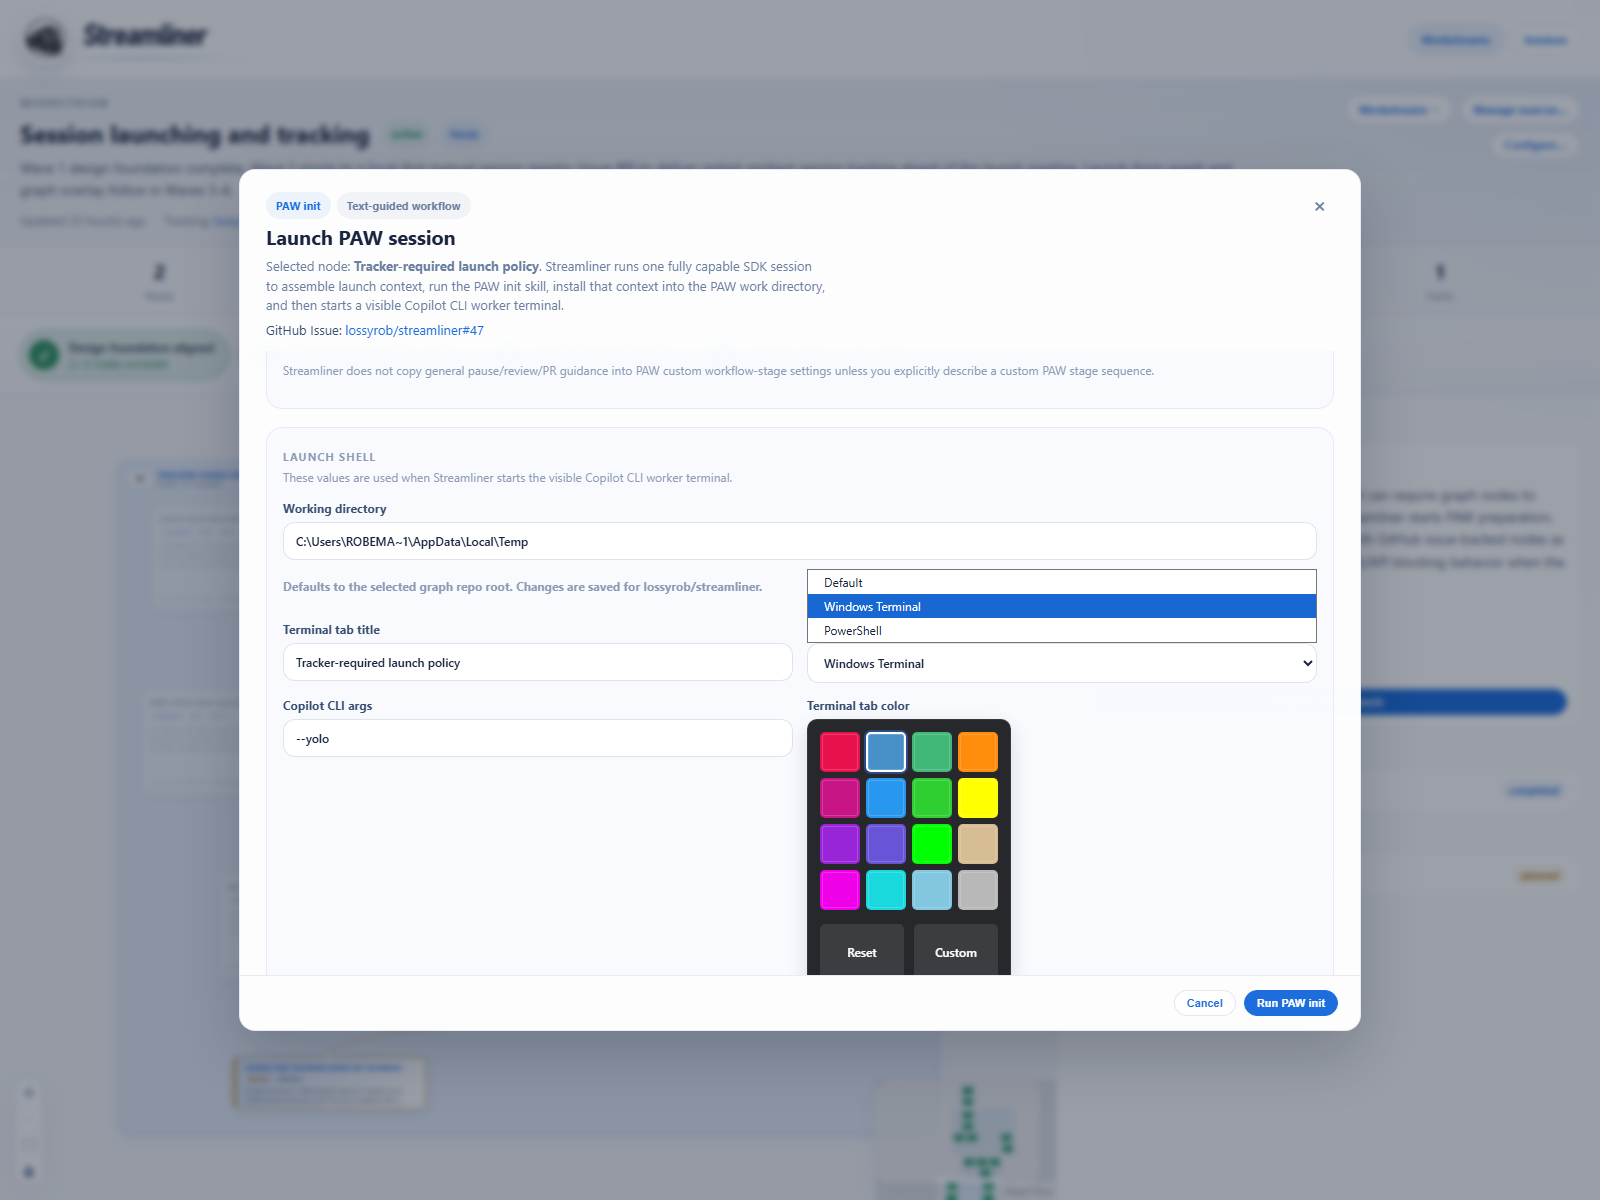
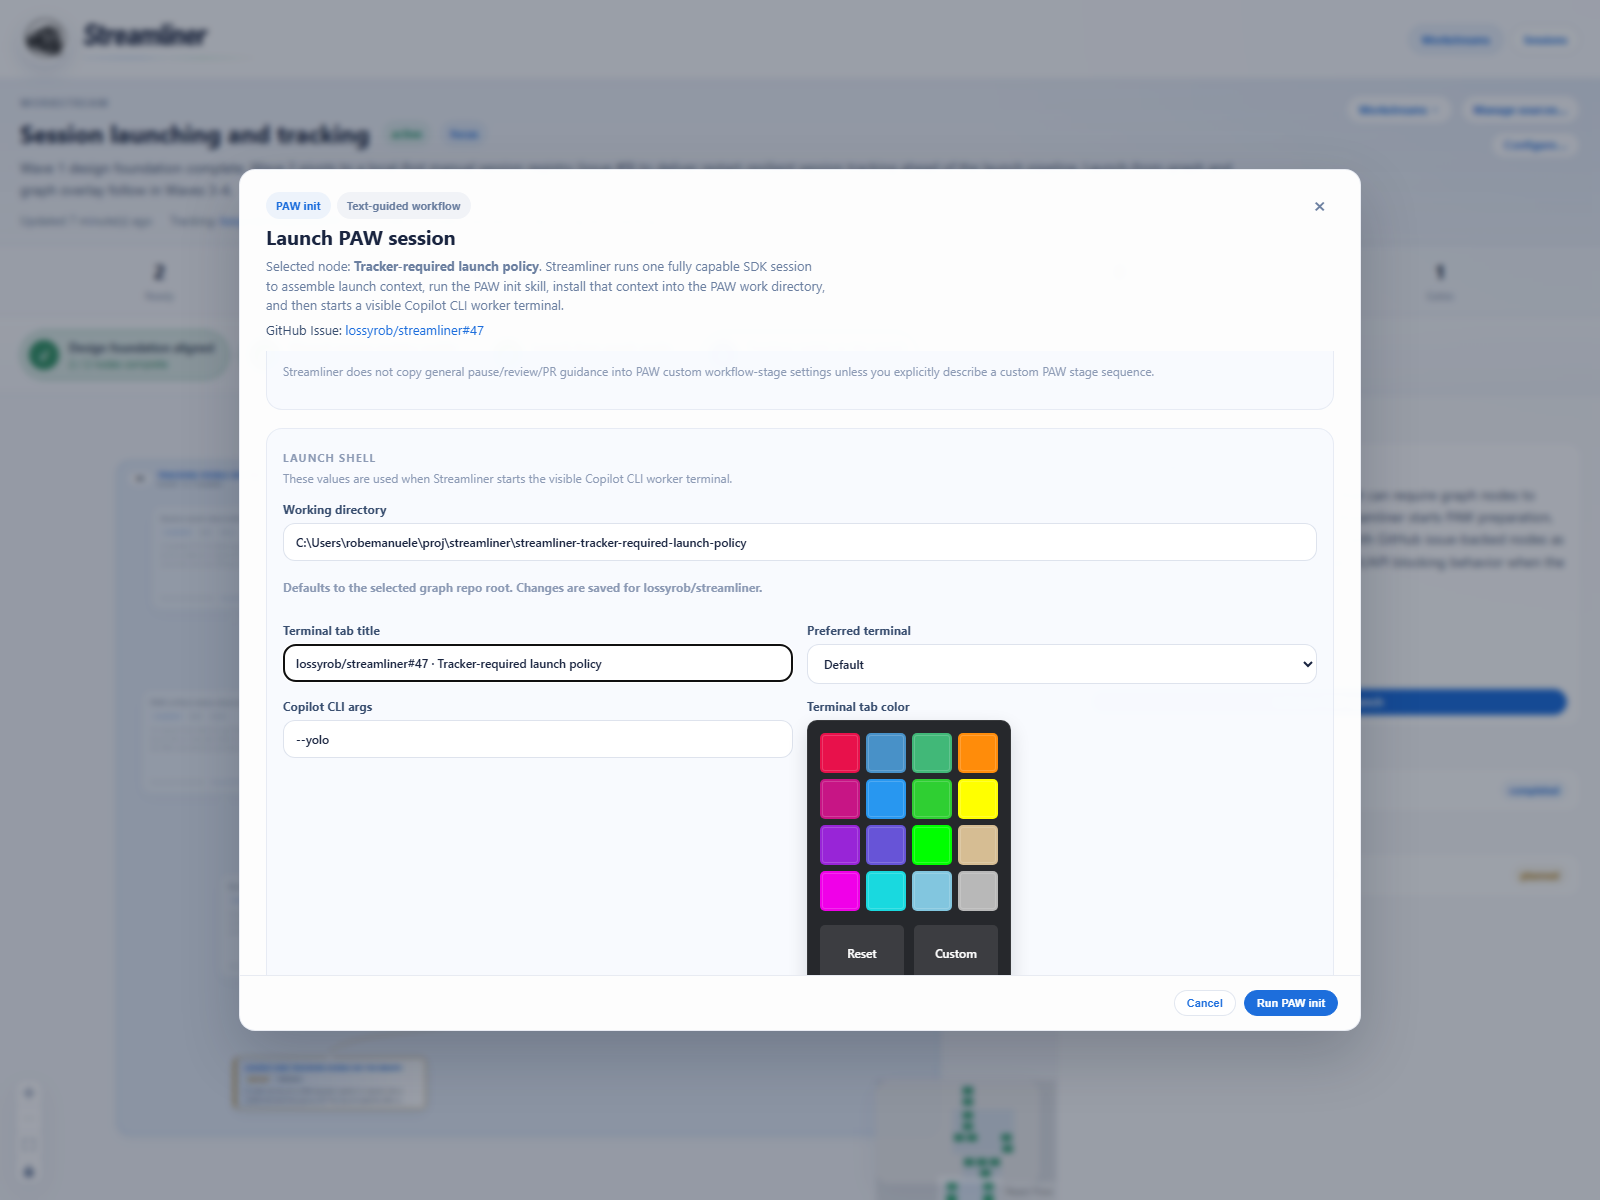
Add terminal title template defaults

diff --git a/src/components/WorkstreamConfigurationDialog.tsx b/src/components/WorkstreamConfigurationDialog.tsx
@@ -9,6 +9,7 @@ import {
   type WorkstreamLaunchRequiredTracker,
   type WorkstreamLaunchTerminalPreference,
 } from "../workstream-schema";
+import { WORKSTREAM_TERMINAL_TITLE_TEMPLATE_HELP } from "../workstream-launch-templates";
 import { TerminalColorQuickPicker } from "./SessionColorPicker";
 
 export interface WorkstreamConfigurationValues {
@@ -59,6 +60,9 @@ export function WorkstreamConfigurationDialog({
   const [preferredTerminal, setPreferredTerminal] = useState<WorkstreamLaunchTerminalPreference>(
     workstream.launchDefaults?.terminal?.preferredTerminal ?? "default",
   );
+  const [titleTemplate, setTitleTemplate] = useState(
+    workstream.launchDefaults?.terminal?.titleTemplate ?? "",
+  );
   const [terminalColor, setTerminalColor] = useState(
     workstream.launchDefaults?.terminal?.tabColor ?? "",
   );
@@ -75,6 +79,7 @@ export function WorkstreamConfigurationDialog({
 
     const terminal = {
       ...(preferredTerminal !== "default" ? { preferredTerminal } : {}),
+      ...(titleTemplate.trim() ? { titleTemplate: titleTemplate.trim() } : {}),
       ...(color ? { tabColor: color.toLowerCase() } : {}),
     };
     void onSave({
@@ -171,6 +176,28 @@ export function WorkstreamConfigurationDialog({
                 </select>
                 <span className="sl-field-note">
                   {terminalPreferenceHelp(preferredTerminal)}
+                </span>
+              </label>
+              <label className="sl-field">
+                <span className="sl-field-label-with-help">
+                  <span>Terminal tab title template</span>
+                  <abbr
+                    className="sl-inline-help"
+                    title={WORKSTREAM_TERMINAL_TITLE_TEMPLATE_HELP}
+                  >
+                    ?
+                  </abbr>
+                </span>
+                <input
+                  aria-label="Terminal tab title template"
+                  value={titleTemplate}
+                  onChange={(event) => setTitleTemplate(event.target.value)}
+                  placeholder="{githubIssue} · {nodeTitle}"
+                  disabled={saving}
+                />
+                <span className="sl-field-note">
+                  Use {"{githubIssue}"}, {"{nodeId}"}, or {"{nodeTitle}"}.
+                  Leave empty to use each node title.
                 </span>
               </label>
               <label className="sl-field sl-paw-launch-color-field">

diff --git a/src/server/launch-preparation.ts b/src/server/launch-preparation.ts
@@ -13,7 +13,8 @@ import {
 } from "@github/copilot-sdk";
 
 import type { NodeLaunchRecord } from "../node-launch-record-contract";
-import type { WorkstreamLaunchDefaults, WorkstreamLaunchPolicy } from "../workstream-schema";
+import type { WorkstreamLaunchDefaults, WorkstreamLaunchPolicy, WorkstreamNode } from "../workstream-schema";
+import { renderWorkstreamTerminalTitleTemplate } from "../workstream-launch-templates";
 import {
   evaluateLaunchPolicyFromGraph,
   launchPolicyDetails,
@@ -1614,6 +1615,7 @@ export async function preparePawLaunch(
   const sessionStateRoot = resolve(options.stateRoot ?? defaultStateRoot());
   let launchPolicy: WorkstreamLaunchPolicy | null = null;
   let launchDefaults: WorkstreamLaunchDefaults | null = null;
+  let launchDefaultsNode: WorkstreamNode | null = null;
   const policyGraphPath = options.graphPath ?? options.defaultGraphPath;
   if (policyGraphPath) {
     const policyResult = evaluateLaunchPolicyFromGraph({
@@ -1647,9 +1649,27 @@ export async function preparePawLaunch(
     }
     launchPolicy = policyResult.launchPolicy;
     launchDefaults = policyResult.launchDefaults;
+    launchDefaultsNode = policyResult.node;
   }
+  const terminalTitleDefault = launchDefaultsNode
+    ? renderWorkstreamTerminalTitleTemplate(
+        launchDefaults?.terminal?.titleTemplate,
+        launchDefaultsNode,
+      )
+    : null;
+  const terminalDefaults = launchDefaults?.terminal
+    ? {
+        ...(launchDefaults.terminal.preferredTerminal
+          ? { preferredTerminal: launchDefaults.terminal.preferredTerminal }
+          : {}),
+        ...(launchDefaults.terminal.tabColor
+          ? { tabColor: launchDefaults.terminal.tabColor }
+          : {}),
+        ...(terminalTitleDefault ? { title: terminalTitleDefault } : {}),
+      }
+    : undefined;
   const parsedConfiguration = parseConfigurationInput(options.configuration, {
-    terminal: launchDefaults?.terminal,
+    terminal: terminalDefaults,
   });
 
   const contextPreparer = options.contextPreparer ?? prepareLaunchContextPackage;

diff --git a/src/server/workstream-configuration.test.ts b/src/server/workstream-configuration.test.ts
@@ -85,6 +85,7 @@ describe("updateWorkstreamConfigurationFile", () => {
       launchDefaults: {
         terminal: {
           preferredTerminal: "windows-terminal",
+          titleTemplate: "{githubIssue} · {nodeTitle}",
           tabColor: "#FF8C0A",
         },
       },
@@ -94,6 +95,7 @@ describe("updateWorkstreamConfigurationFile", () => {
     expect(result.workstream.launchDefaults).toEqual({
       terminal: {
         preferredTerminal: "windows-terminal",
+        titleTemplate: "{githubIssue} · {nodeTitle}",
         tabColor: "#ff8c0a",
       },
     });
@@ -101,10 +103,11 @@ describe("updateWorkstreamConfigurationFile", () => {
       updatedAt: "2026-05-07T18:22:44.000Z",
       launchPolicy: { requiredTracker: "github-issue" },
       launchDefaults: {
-        terminal: {
-          preferredTerminal: "windows-terminal",
-          tabColor: "#ff8c0a",
-        },
+      terminal: {
+        preferredTerminal: "windows-terminal",
+        titleTemplate: "{githubIssue} · {nodeTitle}",
+        tabColor: "#ff8c0a",
+      },
       },
     }));
 
@@ -113,6 +116,7 @@ describe("updateWorkstreamConfigurationFile", () => {
       launchDefaults: {
         terminal: {
           preferredTerminal: "default",
+          titleTemplate: "",
           tabColor: "",
         },
       },
@@ -139,6 +143,10 @@ describe("updateWorkstreamConfigurationFile", () => {
       {
         label: "tab color",
         configuration: { launchDefaults: { terminal: { tabColor: "orange" } } },
+      },
+      {
+        label: "title template",
+        configuration: { launchDefaults: { terminal: { titleTemplate: 42 } } },
       },
     ];
 

diff --git a/src/server/workstream-configuration.ts b/src/server/workstream-configuration.ts
@@ -98,6 +98,17 @@ function normalizeTerminalPreference(value: unknown): WorkstreamLaunchTerminalPr
   return value as WorkstreamLaunchTerminalPreference;
 }
 
+function normalizeTitleTemplate(value: unknown): string | undefined {
+  if (value === undefined || value === null || value === "") {
+    return undefined;
+  }
+  if (typeof value !== "string") {
+    throw badConfiguration("launchDefaults.terminal.titleTemplate must be a string.");
+  }
+  const template = value.trim();
+  return template.length > 0 ? template : undefined;
+}
+
 function normalizeLaunchDefaults(value: unknown): WorkstreamLaunchDefaults | undefined {
   const record = optionalRecord(value, "launchDefaults");
   if (!record) {
@@ -108,9 +119,11 @@ function normalizeLaunchDefaults(value: unknown): WorkstreamLaunchDefaults | und
     return undefined;
   }
   const preferredTerminal = normalizeTerminalPreference(terminalRecord.preferredTerminal);
+  const titleTemplate = normalizeTitleTemplate(terminalRecord.titleTemplate);
   const tabColor = normalizeOptionalHexColor(terminalRecord.tabColor);
   const terminal = {
     ...(preferredTerminal ? { preferredTerminal } : {}),
+    ...(titleTemplate ? { titleTemplate } : {}),
     ...(tabColor ? { tabColor } : {}),
   };
   return Object.keys(terminal).length > 0 ? { terminal } : undefined;

diff --git a/src/workstream-launch-templates.test.ts b/src/workstream-launch-templates.test.ts
@@ -1,0 +1,42 @@
+import { describe, expect, it } from "vitest";
+
+import { renderWorkstreamTerminalTitleTemplate } from "./workstream-launch-templates";
+import type { WorkstreamNode } from "./workstream-schema";
+
+const node: WorkstreamNode = {
+  id: "tracker-required-launch-policy",
+  type: "task",
+  title: "Tracker-required launch policy",
+  summary: "Require tracker-backed launches.",
+  status: "ready",
+  attention: "focus",
+  repoIds: ["streamliner"],
+  tracker: {
+    type: "github",
+    owner: "lossyrob",
+    repo: "streamliner",
+    number: 47,
+  },
+  dependsOn: [],
+};
+
+describe("renderWorkstreamTerminalTitleTemplate", () => {
+  it("renders supported terminal title template values", () => {
+    expect(
+      renderWorkstreamTerminalTitleTemplate(
+        "{githubIssue} · {nodeId} · {nodeTitle}",
+        node,
+      ),
+    ).toBe(
+      "lossyrob/streamliner#47 · tracker-required-launch-policy · Tracker-required launch policy",
+    );
+  });
+
+  it("leaves unknown template values literal and returns null for empty output", () => {
+    expect(renderWorkstreamTerminalTitleTemplate("{unknown}", node)).toBe("{unknown}");
+    expect(renderWorkstreamTerminalTitleTemplate("{githubIssue}", {
+      ...node,
+      tracker: undefined,
+    })).toBeNull();
+  });
+});

diff --git a/src/App.test.tsx b/src/App.test.tsx
@@ -2277,6 +2277,10 @@ describe("App sessions route", () => {
       await settle();
       setSelectValue(findSelectByLabel(container, "Required tracker"), "github-issue");
       setSelectValue(findSelectByLabel(container, "Preferred terminal"), "windows-terminal");
+      setInputValue(
+        findInputByLabel(container, "Terminal tab title template"),
+        "{githubIssue} · {nodeTitle}",
+      );
       act(() => {
         findButtonByLabel(container, "Use terminal color #ff8c0a").click();
       });
@@ -2291,6 +2295,7 @@ describe("App sessions route", () => {
         launchDefaults: {
           terminal: {
             preferredTerminal: "windows-terminal",
+            titleTemplate: "{githubIssue} · {nodeTitle}",
             tabColor: "#ff8c0a",
           },
         },
@@ -2307,6 +2312,9 @@ describe("App sessions route", () => {
       await settle();
 
       expect(findSelectByLabel(container, "Preferred terminal").value).toBe("windows-terminal");
+      expect(findInputByLabel(container, "Terminal tab title").value).toBe(
+        "lossyrob/streamliner#33 · Launch prompt profiles",
+      );
       expect(container.textContent).toContain("Selected #ff8c0a");
     },
     15_000,

diff --git a/src/workstream-launch-templates.ts b/src/workstream-launch-templates.ts
@@ -1,0 +1,26 @@
+import type { WorkstreamNode } from "./workstream-schema";
+import { issueLabel } from "./workstream-links";
+
+export const WORKSTREAM_TERMINAL_TITLE_TEMPLATE_HELP =
+  "{githubIssue} = GitHub issue as owner/repo#number; {nodeId} = graph node id; {nodeTitle} = graph node title.";
+
+export function renderWorkstreamTerminalTitleTemplate(
+  template: string | null | undefined,
+  node: WorkstreamNode,
+): string | null {
+  const trimmedTemplate = template?.trim();
+  if (!trimmedTemplate) {
+    return null;
+  }
+
+  const values: Record<string, string> = {
+    githubIssue: node.tracker?.type === "github" ? issueLabel(node.tracker) ?? "" : "",
+    nodeId: node.id,
+    nodeTitle: node.title,
+  };
+  const rendered = trimmedTemplate.replace(
+    /\{(githubIssue|nodeId|nodeTitle)\}/g,
+    (_match, key: string) => values[key] ?? "",
+  ).trim();
+  return rendered.length > 0 ? rendered : null;
+}

diff --git a/src/App.tsx b/src/App.tsx
@@ -71,6 +71,7 @@ import {
   trackerLabel as workstreamTrackerLabel,
   trackerUrl as workstreamTrackerUrl,
 } from "./workstream-links";
+import { renderWorkstreamTerminalTitleTemplate } from "./workstream-launch-templates";
 import { evaluateNodeLaunchPolicy } from "./workstream-launch-policy";
 import { useSessionRegistryList } from "./session-registry-client";
 
@@ -1159,7 +1160,11 @@ function GraphDashboard({
         preferredTerminal:
           workstream?.launchDefaults?.terminal?.preferredTerminal ??
           DEFAULT_PAW_TERMINAL_CONFIGURATION.preferredTerminal,
-        title: selectedEntry.node.title,
+        title:
+          renderWorkstreamTerminalTitleTemplate(
+            workstream?.launchDefaults?.terminal?.titleTemplate,
+            selectedEntry.node,
+          ) ?? selectedEntry.node.title,
         tabColor: workstream?.launchDefaults?.terminal?.tabColor ?? null,
       },
     };

diff --git a/src/server/app.test.ts b/src/server/app.test.ts
@@ -549,6 +549,7 @@ describe("createStreamlinerApiApp", () => {
         launchDefaults: {
           terminal: {
             preferredTerminal: "windows-terminal",
+            titleTemplate: "{githubIssue} · {nodeTitle}",
             tabColor: "#FF8C0A",
           },
         },
@@ -561,6 +562,7 @@ describe("createStreamlinerApiApp", () => {
     expect(updateResponse.body.workstream.launchDefaults).toEqual({
       terminal: {
         preferredTerminal: "windows-terminal",
+        titleTemplate: "{githubIssue} · {nodeTitle}",
         tabColor: "#ff8c0a",
       },
     });
@@ -570,6 +572,7 @@ describe("createStreamlinerApiApp", () => {
     expect(persisted.launchDefaults).toEqual({
       terminal: {
         preferredTerminal: "windows-terminal",
+        titleTemplate: "{githubIssue} · {nodeTitle}",
         tabColor: "#ff8c0a",
       },
     });

diff --git a/src/server/launch-policy.ts b/src/server/launch-policy.ts
@@ -9,6 +9,7 @@ import type {
   WorkstreamDocument,
   WorkstreamLaunchDefaults,
   WorkstreamLaunchPolicy,
+  WorkstreamNode,
 } from "../workstream-schema";
 import { parseWorkstreamDocument } from "../workstream-view-model";
 
@@ -23,6 +24,7 @@ export type LaunchPolicyEvaluationResult =
       ok: true;
       launchPolicy: WorkstreamLaunchPolicy | null;
       launchDefaults: WorkstreamLaunchDefaults | null;
+      node: WorkstreamNode;
     }
   | { ok: false; kind: "blocked"; violation: WorkstreamLaunchPolicyViolation }
   | {
@@ -106,6 +108,7 @@ export function evaluateLaunchPolicyFromGraph(input: {
         ok: true,
         launchPolicy: workstream.launchPolicy ?? null,
         launchDefaults: workstream.launchDefaults ?? null,
+        node,
       }
     : { ok: false, kind: "blocked", violation: decision.violation };
 }

diff --git a/src/workstream-view-model.ts b/src/workstream-view-model.ts
@@ -228,6 +228,16 @@ function parseOptionalHexColor(value: unknown, label: string): string | null | u
   return color.toLowerCase();
 }
 
+function parseOptionalString(value: unknown, label: string): string | null | undefined {
+  if (typeof value === "undefined") {
+    return undefined;
+  }
+  if (value === null) {
+    return null;
+  }
+  return asNonEmptyString(value, label).trim();
+}
+
 function parseLaunchTerminalDefaults(
   value: unknown,
   label: string,
@@ -243,6 +253,7 @@ function parseLaunchTerminalDefaults(
             `${label}.preferredTerminal`,
             WORKSTREAM_LAUNCH_TERMINAL_PREFERENCES,
           ),
+    titleTemplate: parseOptionalString(record.titleTemplate, `${label}.titleTemplate`),
     tabColor: parseOptionalHexColor(record.tabColor, `${label}.tabColor`),
   };
 }

diff --git a/src/server/launch-preparation.test.ts b/src/server/launch-preparation.test.ts
@@ -670,6 +670,7 @@ describe("preparePawLaunch", () => {
       launchDefaults: {
         terminal: {
           preferredTerminal: "windows-terminal",
+          titleTemplate: "{githubIssue} · {nodeTitle}",
           tabColor: "#4891c8",
         },
       },
@@ -689,10 +690,12 @@ describe("preparePawLaunch", () => {
 
     expect(result.terminal).toEqual(expect.objectContaining({
       preferredTerminal: "windows-terminal",
+      title: "lossyrob/streamliner#33 · Launch prompt profiles",
       tabColor: "#ff8c0a",
     }));
     expect(pawInitCalls[0].configuration.terminal).toEqual(expect.objectContaining({
       preferredTerminal: "windows-terminal",
+      title: "lossyrob/streamliner#33 · Launch prompt profiles",
       tabColor: "#ff8c0a",
     }));
   });
